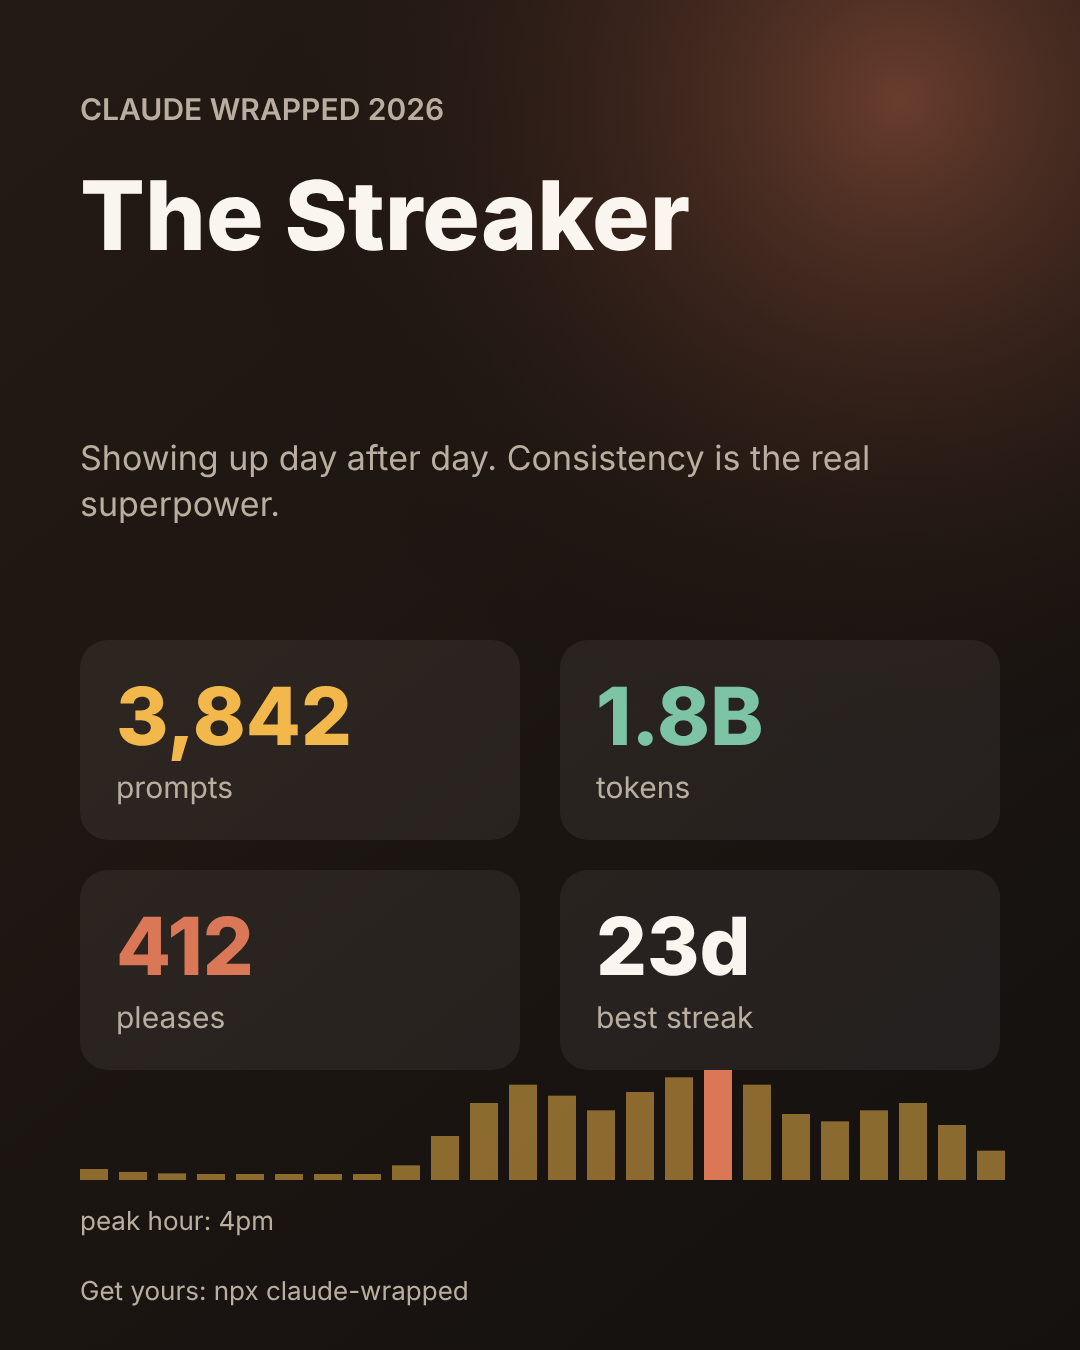
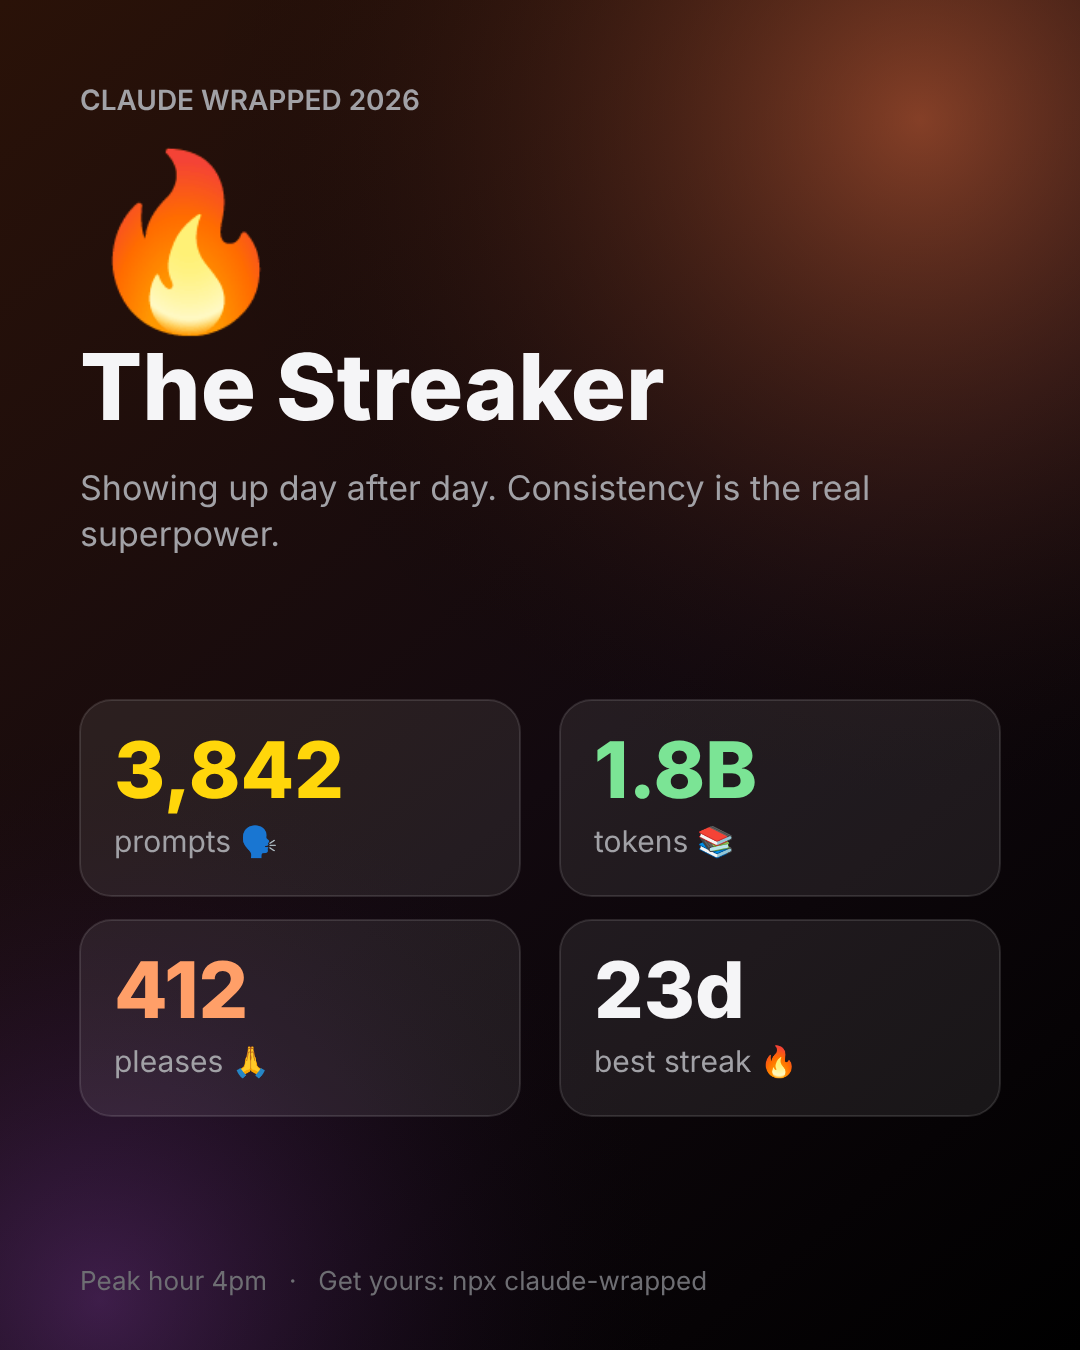
Apple-style redesign with emoji: gradient themes, glass cards, personality emojis, new landing page
Claude-Session: https://claude.ai/code/session_0114ufc5nCEPUqAAHHd1DSHd

diff --git a/docs/index.html b/docs/index.html
@@ -20,28 +20,45 @@
 {"@type":"Question","name":"How do I see last year's stats?","acceptedAnswer":{"@type":"Answer","text":"Run npx claude-wrapped --year 2025."}}]}]}
 </script>
 <style>
-:root{--bg:#14110f;--ink:#faf5ee;--mute:#b9aea0;--accent:#d97757}
-*{box-sizing:border-box;margin:0}body{background:var(--bg);color:var(--ink);font:1.05rem/1.6 ui-sans-serif,system-ui,sans-serif}
-main{max-width:760px;margin:0 auto;padding:56px 24px}
-h1{font-size:clamp(2.2rem,7vw,3.6rem);line-height:1.05;letter-spacing:-.03em}h2{margin:44px 0 12px;font-size:1.5rem}
-p,li{color:var(--mute)}li{margin:6px 0 6px 20px}b{color:var(--ink)}
-pre{background:#ffffff10;border:1px solid #ffffff22;border-radius:12px;padding:16px;margin:20px 0;overflow-x:auto;color:var(--ink)}
-img{max-width:340px;width:100%;border-radius:16px;margin:24px 0}a{color:var(--accent)}
-.cta{display:inline-block;background:var(--accent);color:#1a0f0a;padding:12px 22px;border-radius:999px;font-weight:600;text-decoration:none}
-details{border-bottom:1px solid #ffffff1a;padding:12px 0}summary{cursor:pointer;color:var(--ink);font-weight:600}
+:root{--ink:#f5f5f7;--mute:#a1a1a6;--font:-apple-system,BlinkMacSystemFont,"SF Pro Display",Inter,"Segoe UI",system-ui,sans-serif}
+*{box-sizing:border-box;margin:0}html{scroll-behavior:smooth}
+body{background:#000;color:var(--ink);font:1.05rem/1.6 var(--font);-webkit-font-smoothing:antialiased;background-image:radial-gradient(60% 40% at 80% 0%,#ff7a4544,transparent 70%),radial-gradient(50% 40% at 0% 30%,#bf5af233,transparent 70%);background-repeat:no-repeat}
+main{max-width:820px;margin:0 auto;padding:72px 24px 56px}
+.hero{text-align:center}.pill{display:inline-block;background:#ffffff14;border:1px solid #ffffff1f;border-radius:999px;padding:6px 16px;font-size:.85rem;color:var(--mute);backdrop-filter:blur(20px)}
+h1{font-size:clamp(2.8rem,10vw,5.5rem);line-height:1.02;letter-spacing:-.045em;font-weight:800;margin:22px auto 0;max-width:12ch}
+.grad{background:linear-gradient(135deg,#ff9f68,#ff5c8a);-webkit-background-clip:text;background-clip:text;color:transparent}
+.lead{font-size:clamp(1.1rem,3vw,1.4rem);color:var(--mute);max-width:34ch;margin:20px auto 0}.lead b{color:var(--ink)}
+.cmd{display:inline-block;margin:30px 0 8px;background:#ffffff12;border:1px solid #ffffff1f;border-radius:16px;padding:14px 26px;font:600 1.15rem ui-monospace,SFMono-Regular,Menlo,monospace;backdrop-filter:blur(24px)}
+.cta{display:inline-block;background:var(--ink);color:#000;padding:13px 26px;border-radius:999px;font-weight:600;text-decoration:none;margin:8px 6px;transition:transform .15s}.cta:hover{transform:scale(1.04)}
+.cta.ghost{background:#ffffff1f;color:var(--ink)}
+.shot{display:block;margin:48px auto 0;max-width:360px;width:100%;border-radius:32px;box-shadow:0 40px 100px #000c,0 0 80px #ff7a4533;animation:fl 6s ease-in-out infinite}
+@keyframes fl{0%,100%{transform:translateY(0)}50%{transform:translateY(-10px)}}
+h2{margin:72px 0 20px;font-size:clamp(1.7rem,5vw,2.4rem);letter-spacing:-.03em;text-align:center}
+.grid{display:grid;grid-template-columns:repeat(auto-fit,minmax(220px,1fr));gap:14px}
+.f{background:#ffffff0f;border:1px solid #ffffff17;border-radius:24px;padding:22px;backdrop-filter:blur(24px)}.f i{font-style:normal;font-size:2rem;display:block;margin-bottom:8px}.f b{display:block;margin-bottom:4px}.f span{color:var(--mute);font-size:.95rem}
+details{background:#ffffff0d;border:1px solid #ffffff14;border-radius:18px;padding:16px 20px;margin:10px 0}summary{cursor:pointer;font-weight:600}details p{color:var(--mute);margin-top:8px}details b{color:var(--ink)}
+footer{margin-top:56px;text-align:center;color:var(--mute);font-size:.9rem}a{color:#ff9f68}
+@media(prefers-reduced-motion:reduce){.shot{animation:none}}
 </style></head><body><main>
-<h1>Claude Wrapped</h1>
-<p style="margin-top:14px"><b>Your Claude Code year in review.</b> One command turns your history into a Spotify-Wrapped-style story and a card you can share. Runs on your machine. Nothing is uploaded.</p>
-<pre>npx claude-wrapped</pre>
-<a class="cta" href="https://github.com/alpit-patel/claude-wrapped">View on GitHub</a>
-<br><img src="card.png" alt="Claude Wrapped share card showing prompts, tokens, pleases and best streak">
-<h2>What it shows</h2>
-<ul><li>Prompts, sessions, active days and your best streak</li><li>Tokens moved, plus how many times you said please</li><li>Peak hour, year heatmap and top languages</li><li>11 badges and a Claude personality</li></ul>
-<h2>FAQ</h2>
+<div class="hero"><span class="pill">🐶 Free · Open source · 100% local</span>
+<h1>Claude <span class="grad">Wrapped</span></h1>
+<p class="lead"><b>Your Claude Code year in review.</b> One command turns your history into a story and a card worth sharing.</p>
+<div class="cmd">npx claude-wrapped</div><br>
+<a class="cta" href="https://github.com/alpit-patel/claude-wrapped">View on GitHub</a><a class="cta ghost" href="#faq">FAQ</a>
+<img class="shot" src="card.png" alt="Claude Wrapped share card showing prompts, tokens, pleases and best streak"></div>
+<h2>What you get 🎁</h2>
+<div class="grid">
+<div class="f"><i>🗣</i><b>Prompts and streaks</b><span>Sessions, active days and your best run.</span></div>
+<div class="f"><i>🙏</i><b>Your manners</b><span>How many times you said please. And swore. 🤬</span></div>
+<div class="f"><i>🔥</i><b>Year heatmap</b><span>A GitHub-style calendar of your days with Claude.</span></div>
+<div class="f"><i>🌍</i><b>Languages</b><span>What Claude wrote for you, from TypeScript to Python.</span></div>
+<div class="f"><i>🏆</i><b>11 badges</b><span>Marathoner, Night Owl, Polite Human and more.</span></div>
+<div class="f"><i>🐶</i><b>A personality</b><span>Good Boy Builder, Night Owl, Gentleman, Streaker...</span></div></div>
+<h2 id="faq">FAQ 🤔</h2>
 <details><summary>What is Claude Wrapped?</summary><p>A free, open-source command-line tool that summarizes your Claude Code usage for the year, like Spotify Wrapped does for music.</p></details>
 <details><summary>How do I run it?</summary><p>Run <b>npx claude-wrapped</b> in your terminal. It needs Node 18 or newer and no account or API key.</p></details>
 <details><summary>Is my data uploaded?</summary><p>No. It reads transcripts stored on your computer and makes no network calls. The share card contains only totals, never prompt text or project names.</p></details>
 <details><summary>Where does it get its data?</summary><p>From the transcript files Claude Code saves locally in <b>~/.claude/projects</b>.</p></details>
 <details><summary>How do I see last year's stats?</summary><p>Run <b>npx claude-wrapped --year 2025</b>.</p></details>
-<p style="margin-top:40px">MIT licensed. Built by <a href="https://github.com/alpit-patel">Alpit Patel</a>. Not affiliated with Anthropic.</p>
+<footer>MIT licensed. Built by <a href="https://github.com/alpit-patel">Alpit Patel</a>. Not affiliated with Anthropic. 🐾</footer>
 </main></body></html>
